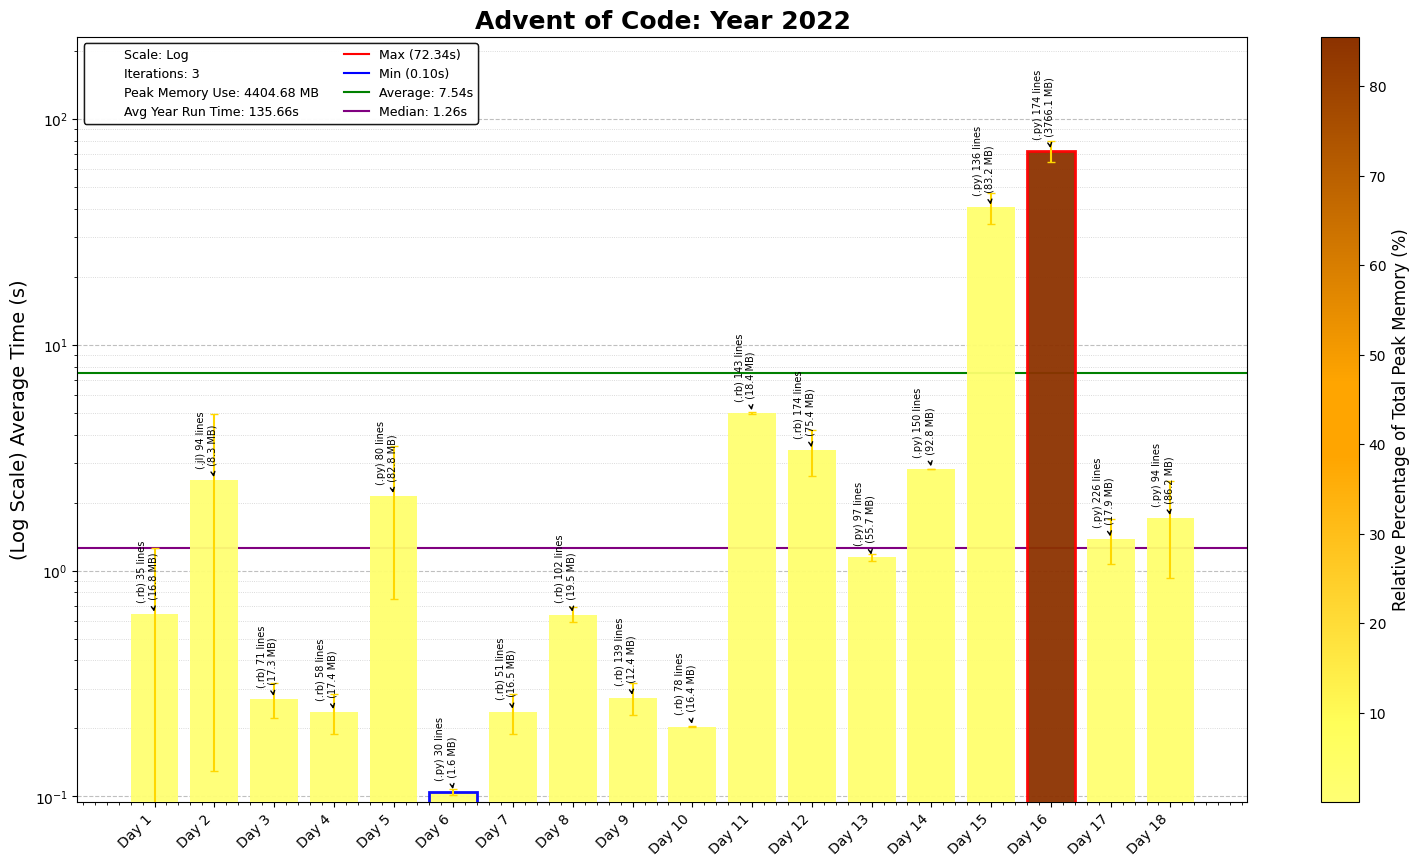
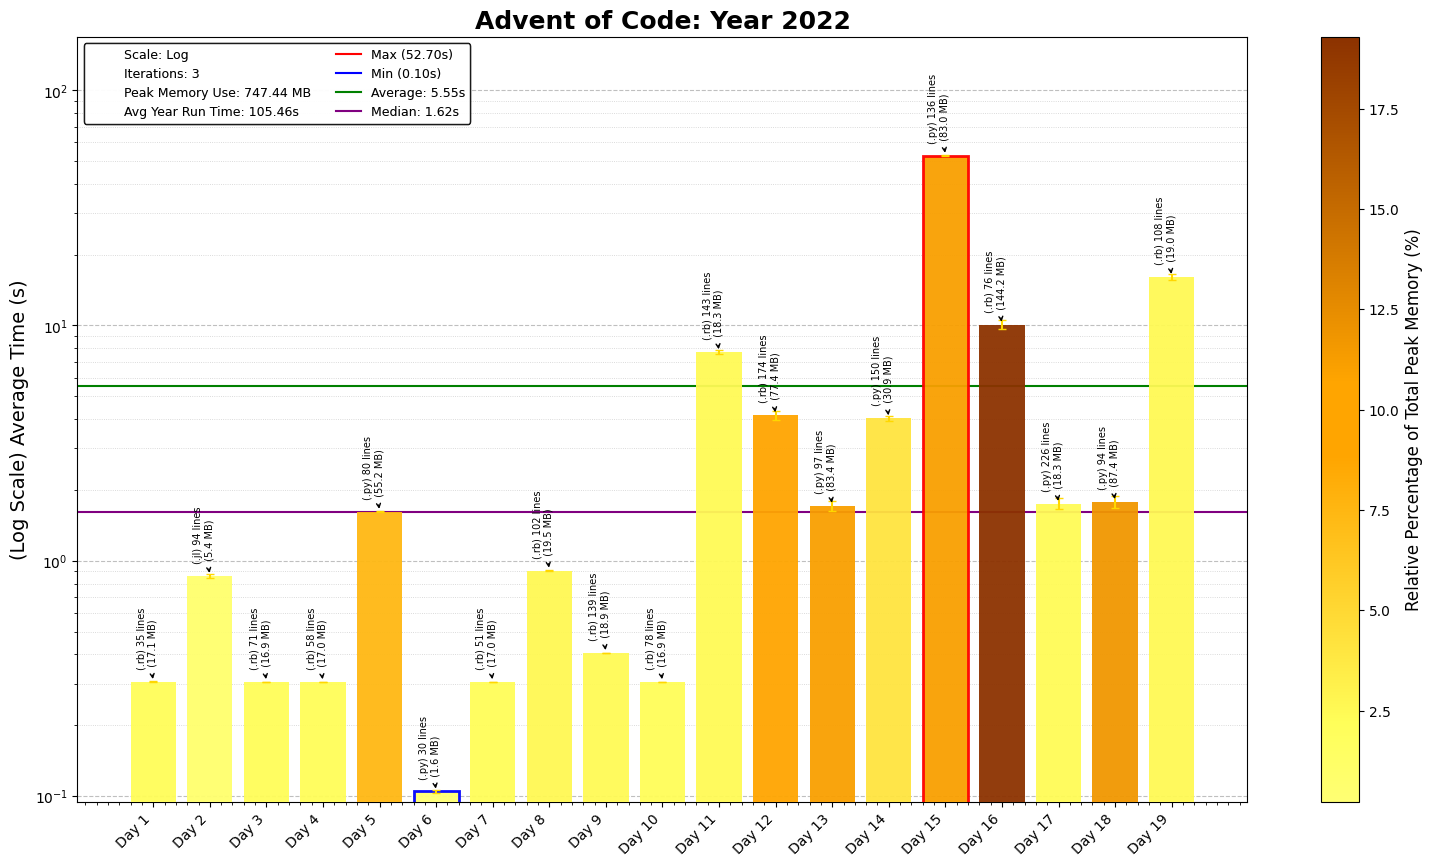
2022 Day 19 and 16 Ruby

diff --git a/2022/19/Alt2022Day19.py b/2022/19/Alt2022Day19.py
@@ -1,0 +1,111 @@
+"""Advent of Code - Day 19, Year 2022
+Solution Started: Dec 8, 2024
+Puzzle Link: https://adventofcode.com/2022/day/19
+Solution by: abbasmoosajee07
+Brief: [Mining Robots]
+"""
+
+#!/usr/bin/env python3
+
+import os, re, copy, time
+import numpy as np
+import pandas as pd
+import matplotlib.pyplot as plt
+from collections import deque
+
+start_time = time.time()
+# Load the input data from the specified file path
+D19_file = "Day19_input.txt"
+D19_file_path = os.path.join(os.path.dirname(os.path.abspath(__file__)), D19_file)
+
+# Read and sort input data into a grid
+with open(D19_file_path) as file:
+    input_data = file.read().strip().split('\n')
+
+def parse_input(input_list):
+    blueprint_dict = {}
+    pattern = r'Blueprint (\d+): Each ore robot costs (\d+) ore. Each clay robot costs (\d+) ore. Each obsidian robot costs (\d+) ore and (\d+) clay. Each geode robot costs (\d+) ore and (\d+) obsidian.'
+    for line in input_list:
+        match = re.findall(pattern, line)[0]
+        # print(match)
+        blueprint = int(match[0])
+        ore_robot = {'ore':int(match[1]), 'clay': 0, 'obsidian': 0}
+        clay_robot = {'ore':int(match[2]), 'clay': 0, 'obsidian': 0}
+        obsidian_robot = {'ore':int(match[3]), 'clay': int(match[4]), 'obsidian': 0}
+        geode_robot = {'ore':int(match[5]), 'clay': 0, 'obsidian': int(match[6])}
+        robots = {'ore_robot': ore_robot, 'clay_robot': clay_robot,
+                    'obsidian_robot': obsidian_robot, 'geode_robot': geode_robot
+                    }
+        blueprint_dict[blueprint] = robots
+    return blueprint_dict
+
+def solve(Co, Cc, Co1, Co2, Cg1, Cg2, T):
+    best = 0
+    # state is (ore, clay, obsidian, geodes, r1, r2, r3, r4, time)
+    S = (0, 0, 0, 0, 1, 0, 0, 0, T)
+    Q = deque([S])
+    SEEN = set()
+    while Q:
+        state = Q.popleft()
+        #print(state)
+        o,c,ob,g,r1,r2,r3,r4,t = state
+
+        best = max(best, g)
+        if t==0:
+            continue
+
+        Core = max([Co, Cc, Co1, Cg1])
+        if r1>=Core:
+            r1 = Core
+        if r2>=Co2:
+            r2 = Co2
+        if r3>=Cg2:
+            r3 = Cg2
+        if o >= t*Core-r1*(t-1):
+            o = t*Core-r1*(t-1)
+        if c>=t*Co2-r2*(t-1):
+            c = t*Co2 - r2*(t-1)
+        if ob>=t*Cg2-r3*(t-1):
+            ob = t*Cg2-r3*(t-1)
+
+        state = (o,c,ob,g,r1,r2,r3,r4,t)
+
+        if state in SEEN:
+            continue
+        SEEN.add(state)
+
+        if len(SEEN) % 1000000 == 0:
+            print(t,best,len(SEEN))
+        assert o>=0 and c>=0 and ob>=0 and g>=0, state
+        Q.append((o+r1,c+r2,ob+r3,g+r4,r1,r2,r3,r4,t-1))
+        if o>=Co: # buy ore
+            Q.append((o-Co+r1, c+r2, ob+r3, g+r4, r1+1,r2,r3,r4,t-1))
+        if o>=Cc:
+            Q.append((o-Cc+r1, c+r2, ob+r3, g+r4, r1,r2+1,r3,r4,t-1))
+        if o>=Co1 and c>=Co2:
+            Q.append((o-Co1+r1, c-Co2+r2, ob+r3, g+r4, r1,r2,r3+1,r4,t-1))
+        if o>=Cg1 and ob>=Cg2:
+            Q.append((o-Cg1+r1, c+r2, ob-Cg2+r3, g+r4, r1,r2,r3,r4+1,t-1))
+    return best
+
+p1 = 0
+p2 = 1
+
+blueprints = parse_input(input_data)
+for no in blueprints.keys():
+    test_blueprint = blueprints[no]
+    ore_cost = test_blueprint['ore_robot']['ore']
+    clay_cost = test_blueprint['clay_robot']['ore']
+    obsidian_cost_ore = test_blueprint['obsidian_robot']['ore']
+    obsidian_cost_clay = test_blueprint['obsidian_robot']['clay']
+    geode_cost_ore = test_blueprint['geode_robot']['ore']
+    geode_cost_obsidian = test_blueprint['geode_robot']['obsidian']
+
+    s1 = solve(ore_cost, clay_cost, obsidian_cost_ore, obsidian_cost_clay, geode_cost_ore, geode_cost_obsidian,24)
+    p1 += no*s1
+    if no <= 3:
+        s2 = solve(ore_cost, clay_cost, obsidian_cost_ore, obsidian_cost_clay, geode_cost_ore, geode_cost_obsidian,32)
+        p2 *= s2
+print("Part 1:",p1)
+print("Part 2:",p2)
+print("Total Time:",time.time()-start_time)

diff --git a/2022/19/2022Day19.rb b/2022/19/2022Day19.rb
@@ -1,0 +1,108 @@
+=begin
+Advent of Code - Day 19, Year 2022
+Solution Started: Dec 9, 2024
+Puzzle Link: https://adventofcode.com/2022/day/19
+Solution by: abbasmoosajee07
+Brief: [Mining Robots]
+=end
+
+#!/usr/bin/env ruby
+
+require 'pathname'
+
+# Define file name and extract complete path to the input file
+D19_file = "Day19_input.txt"
+D19_file_path = Pathname.new(__FILE__).dirname + D19_file
+
+# Read the input data
+input_data = File.read(D19_file_path)
+
+def parse_input(input)
+  input.split("\n").map do |line|
+    line.scan(/\d+/).map(&:to_i)
+  end
+end
+
+def solve(time_left, build_costs, material_inventory, robot_inventory, max_geode, allow)
+  can_build = [
+    material_inventory[0] >= build_costs[0],
+    material_inventory[0] >= build_costs[1],
+    material_inventory[0] >= build_costs[2] && material_inventory[1] >= build_costs[3],
+    material_inventory[0] >= build_costs[4] && material_inventory[2] >= build_costs[5]
+  ]
+
+  return material_inventory[3] if time_left == 0
+
+  new_materials = material_inventory.zip(robot_inventory).map { |m, r| m + r }
+
+  # Pruning:
+  max_additional_geode = if can_build[3]
+                           time_left * robot_inventory[3] + time_left * (time_left - 1) / 2
+                         else
+                           time_left * robot_inventory[3] + (time_left - 1) * (time_left - 2) / 2
+                         end
+
+  return max_geode if material_inventory[3] + max_additional_geode <= max_geode
+
+  if can_build[3]
+    geode = solve(time_left - 1, build_costs,
+                  new_materials.zip([build_costs[4], 0, build_costs[5], 0]).map { |a, b| a - b },
+                  robot_inventory.zip([0, 0, 0, 1]).map { |a, b| a + b },
+                  max_geode, [true, true, true, true])
+    max_geode = [max_geode, geode].max
+    return max_geode
+  end
+
+  if can_build[2] && allow[2] && build_costs[5] >= robot_inventory[2]
+    geode = solve(time_left - 1, build_costs,
+                  new_materials.zip([build_costs[2], build_costs[3], 0, 0]).map { |a, b| a - b },
+                  robot_inventory.zip([0, 0, 1, 0]).map { |a, b| a + b },
+                  max_geode, [true, true, true, true])
+    max_geode = [max_geode, geode].max
+  end
+
+  if can_build[1] && allow[1] && build_costs[3] >= robot_inventory[1]
+    geode = solve(time_left - 1, build_costs,
+                  new_materials.zip([build_costs[1], 0, 0, 0]).map { |a, b| a - b },
+                  robot_inventory.zip([0, 1, 0, 0]).map { |a, b| a + b },
+                  max_geode, [true, true, true, true])
+    max_geode = [max_geode, geode].max
+  end
+
+  if can_build[0] && allow[0] && [build_costs[0], build_costs[1], build_costs[2], build_costs[4]].max >= robot_inventory[0]
+    geode = solve(time_left - 1, build_costs,
+                  new_materials.zip([build_costs[0], 0, 0, 0]).map { |a, b| a - b },
+                  robot_inventory.zip([1, 0, 0, 0]).map { |a, b| a + b },
+                  max_geode, [true, true, true, true])
+    max_geode = [max_geode, geode].max
+  end
+
+  if !can_build[3]
+    geode = solve(time_left - 1, build_costs, new_materials, robot_inventory, max_geode, can_build.map { |x| !x })
+    max_geode = [max_geode, geode].max
+  end
+
+  max_geode
+end
+
+
+blueprints = parse_input(input_data)
+
+p1tasks = []
+blueprints.each do |blueprint|
+  p1tasks << Thread.new do
+    blueprint[0] * solve(24, blueprint[1..-1], [0, 0, 0, 0], [1, 0, 0, 0], 0, [true, true, true, true])
+  end
+end
+
+p2tasks = []
+blueprints[0, [blueprints.length, 3].min].each do |blueprint|
+  p2tasks << Thread.new do
+    solve(32, blueprint[1..-1], [0, 0, 0, 0], [1, 0, 0, 0], 0, [true, true, true, true])
+  end
+end
+
+p1 = p1tasks.map(&:value).sum
+p2 = p2tasks.map(&:value).reduce(:*)
+puts "Part 1: #{p1}"
+puts "Part 2: #{p2}"

diff --git a/2022/16/2022Day16.rb b/2022/16/2022Day16.rb
@@ -1,0 +1,76 @@
+=begin
+Advent of Code - Day 16, Year 2022
+Solution Started: Dec 9, 2024
+Puzzle Link: https://adventofcode.com/2022/day/16
+Solution by: abbasmoosajee07
+Brief: [Pipe Flow]
+=end
+
+#!/usr/bin/env ruby
+
+require 'pathname'
+
+# Define file name and extract complete path to the input file
+D16_file = "Day16_input.txt"
+D16_file_path = Pathname.new(__FILE__).dirname + D16_file
+
+# Read the input data
+input_data = File.readlines(D16_file_path).map(&:strip)
+
+def read_puzzle(file)
+  File.readlines(file).map do |line|
+    line[1..-1].scan(/[A-Z]+|\d+/)
+  end
+end
+
+graph = {}
+flows = {}
+indicies = {}
+distances = {}
+puzzle = read_puzzle(D16_file_path)
+
+# Parse the puzzle data
+puzzle.each_with_index do |(valve, flow, *leads), i|
+  graph[valve] = leads
+  flows[valve] = flow.to_i if flow != '0'
+  indicies[valve] = 1 << i
+end
+
+# Initialize distances (Floyd-Warshall step 1)
+graph.each do |v1, leads|
+  leads.each do |v2|
+    distances[[v1, v2]] = 1
+  end
+  graph.each do |v2, _|
+    distances[[v1, v2]] ||= 1000
+  end
+end
+
+# Floyd-Warshall algorithm for shortest path
+graph.keys.permutation(3).each do |k, i, j|
+  distances[[i, j]] = [distances[[i, j]], distances[[i, k]] + distances[[k, j]]].min
+end
+
+# Recursively visit valves to maximize pressure
+def visit(valve, minutes, bitmask, pressure, answer, flows, indicies, distances)
+  answer[bitmask] = [answer[bitmask] || 0, pressure].max
+  flows.each do |valve2, flow|
+    remaining_minutes = minutes - distances[[valve, valve2]] - 1
+    next if indicies[valve2] & bitmask != 0 || remaining_minutes <= 0
+    visit(valve2, remaining_minutes, bitmask | indicies[valve2], pressure + flow * remaining_minutes, answer, flows, indicies, distances)
+  end
+  answer
+end
+
+# Part 1: Max pressure after 30 minutes
+part1 = visit('AA', 30, 0, 0, {}, flows, indicies, distances).values.max
+
+# Part 2: Max pressure considering two independent sets of valves
+visited2 = visit('AA', 26, 0, 0, {}, flows, indicies, distances)
+part2 = visited2.keys.combination(2).map do |bitmask1, bitmask2|
+  next if bitmask1 & bitmask2 != 0
+  visited2[bitmask1] + visited2[bitmask2]
+end.compact.max
+
+puts "Part 1: #{part1}"
+puts "Part 2: #{part2}"
